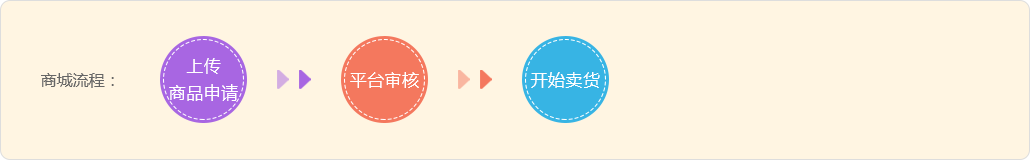
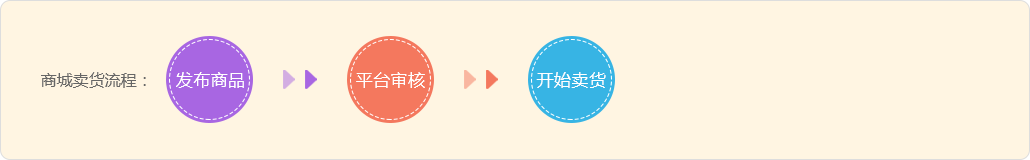
商品发布、商品管理 /user/release-good  、/user/good-management

Changed region(s): [[0.0621, 0.2188, 0.6214, 0.7812]]

diff --git a/src/view/personalCenter/children/ReleaseGood.vue b/src/view/personalCenter/children/ReleaseGood.vue
@@ -1,6 +1,12 @@
 <template>
   <div class="pd-tb-20">
-    <p class="page-title">商品流程</p>
+    <p class="page-title">什么是白拿拿商城？</p>
+    <p class="pl-40 mt-20 font16">
+      商城是采用<span class="orange">先试后买</span>模式的<span class="orange">淘外卖货</span>平台，
+      买家按照商家设定<span class="orange">缴纳保证金</span>后，拥有<span class="orange">14天免费试用权限</span>，
+      试用期间若满意则<span class="orange">支付商品尾款</span>（<span class="orange">商品成交价=保证金+商品尾款</span>），若不满意则买家退货完成后，退还买家保证金。
+    </p>
+    <p class="page-title mt-20">商品流程</p>
     <img src="~assets/img/good-release/good-release.png" alt="" class="mt-20 mb-20">
     <Form :model="validate" :rules="ruleValidate"  ref="form" label-position="left">
       <div class="title pl-20 border-ddd">申请商品信息</div>
@@ -409,6 +415,9 @@
     color: #fd6b22;
     font-size: 20px;
     font-weight: bold;
+  }
+  .orange {
+    color: #fd6b22;
   }
   .submit {
     background: #f5f5f5;
